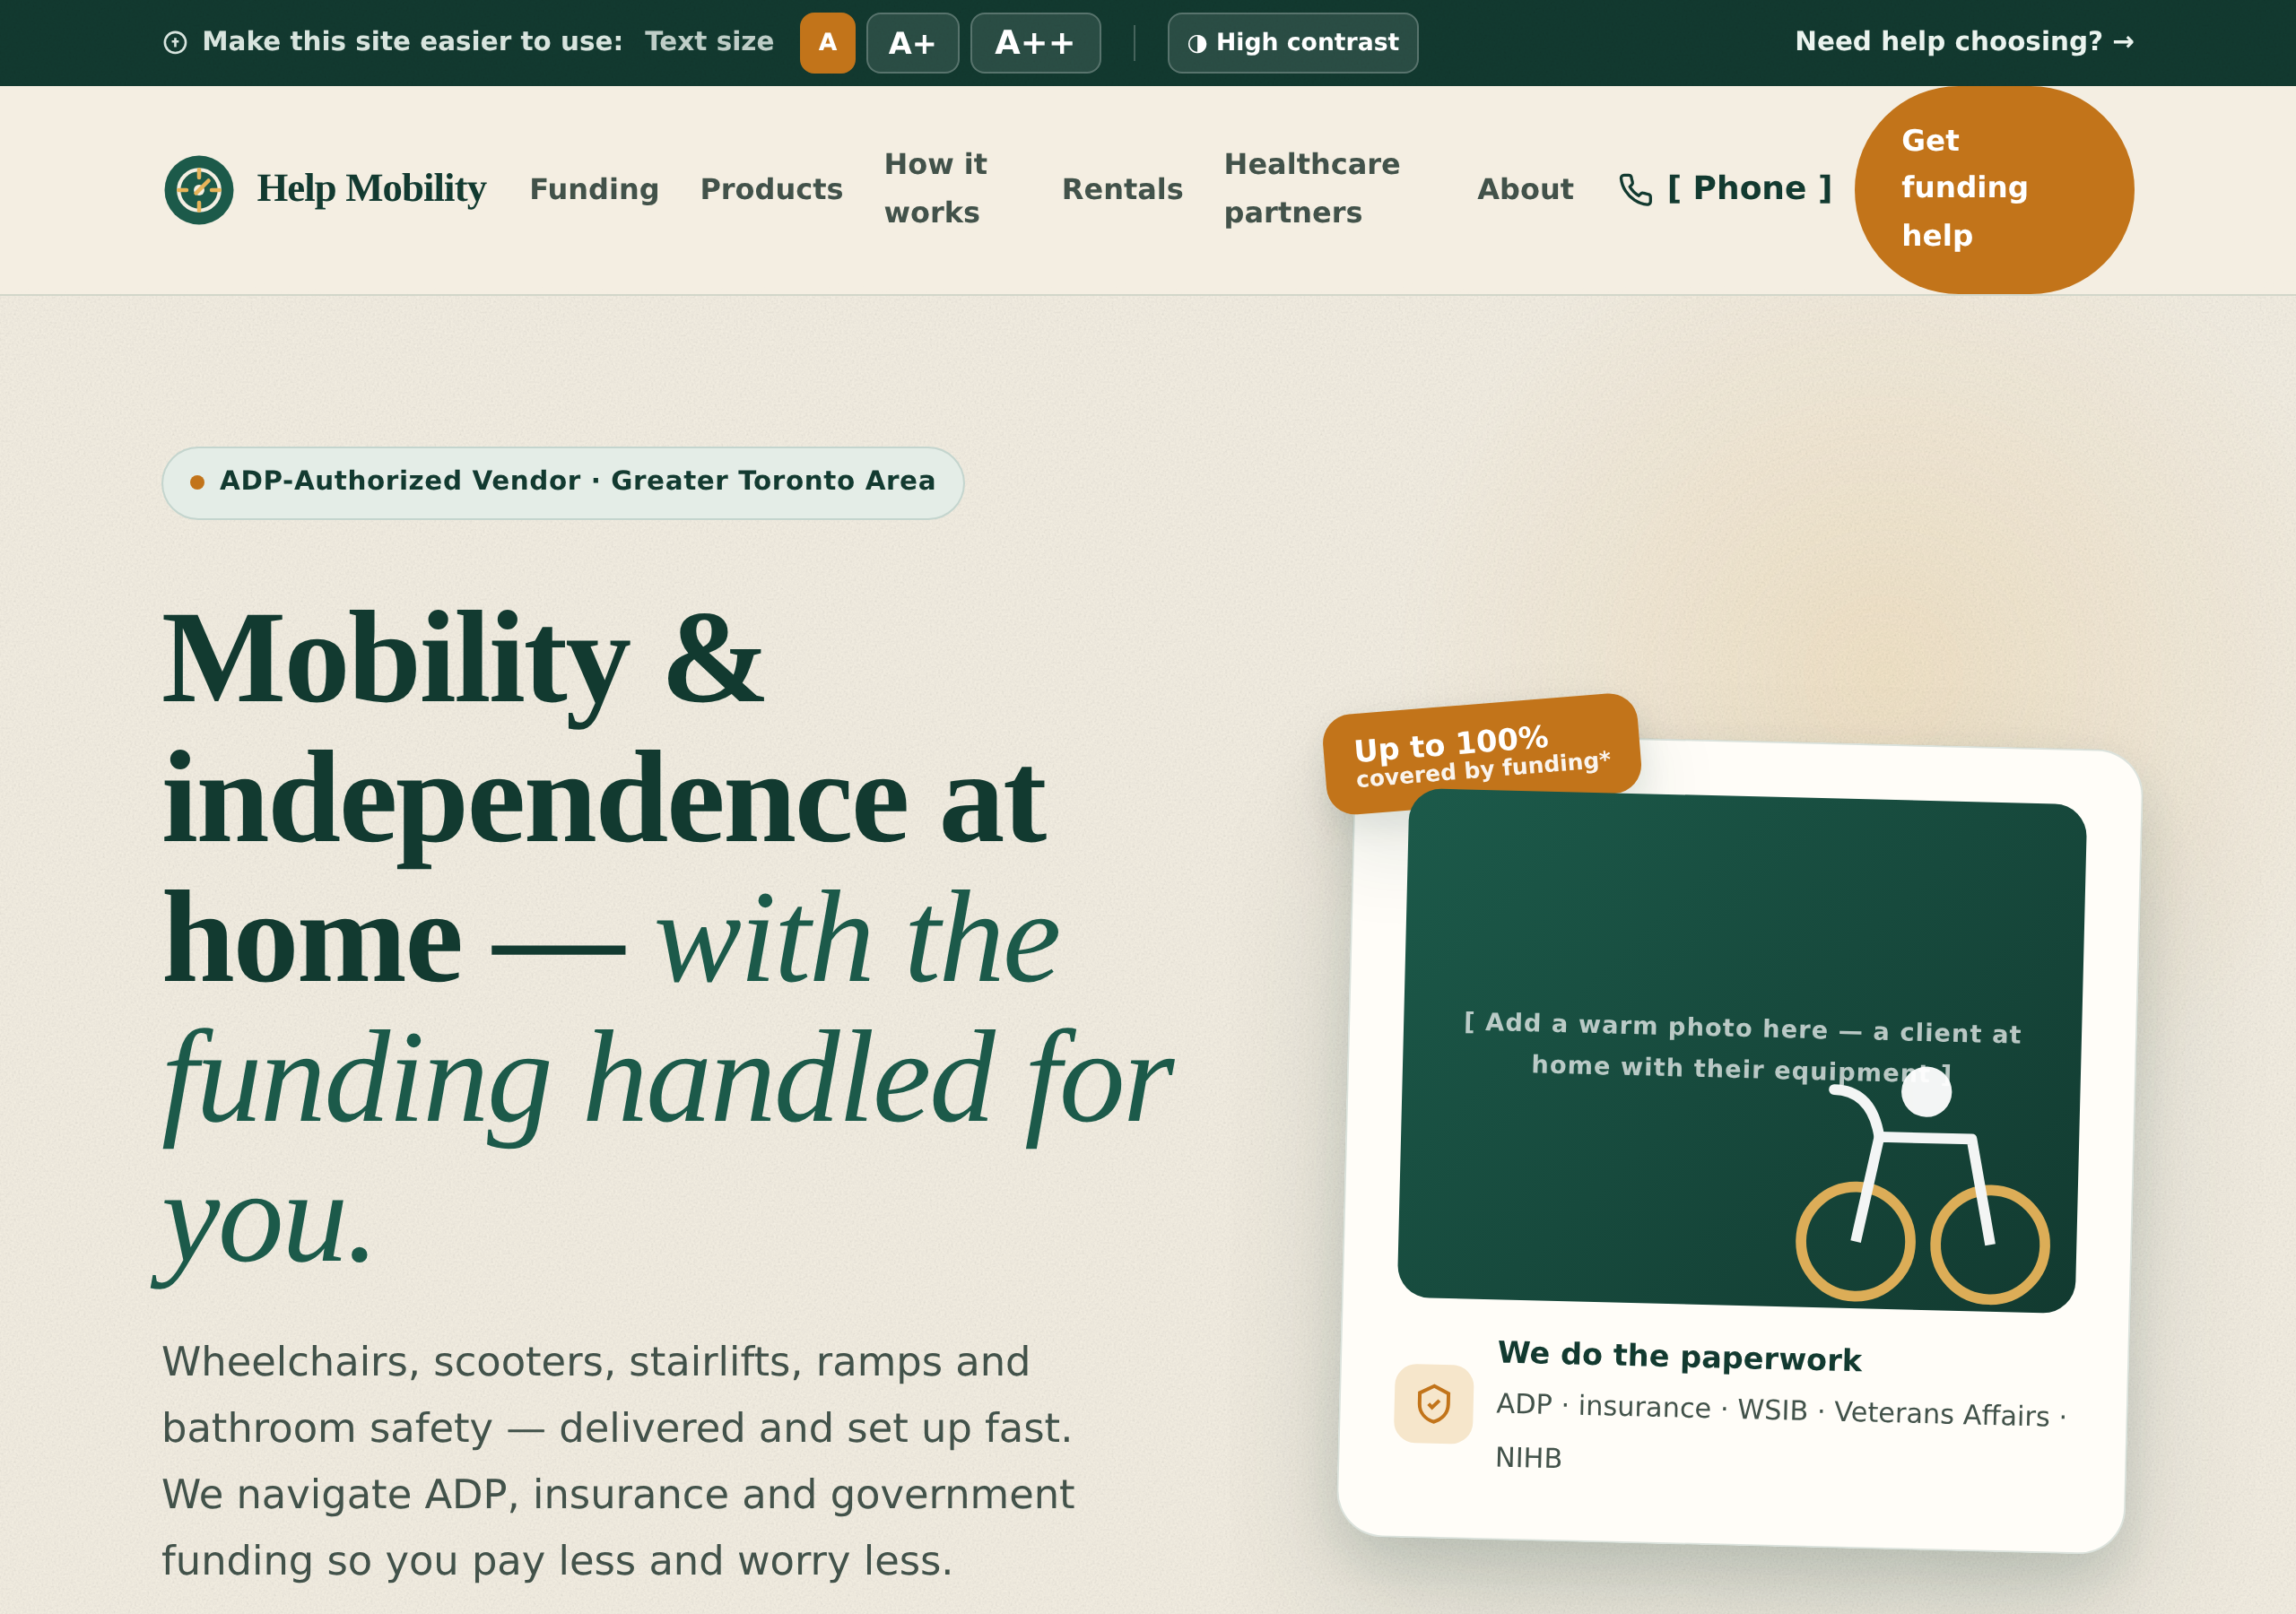
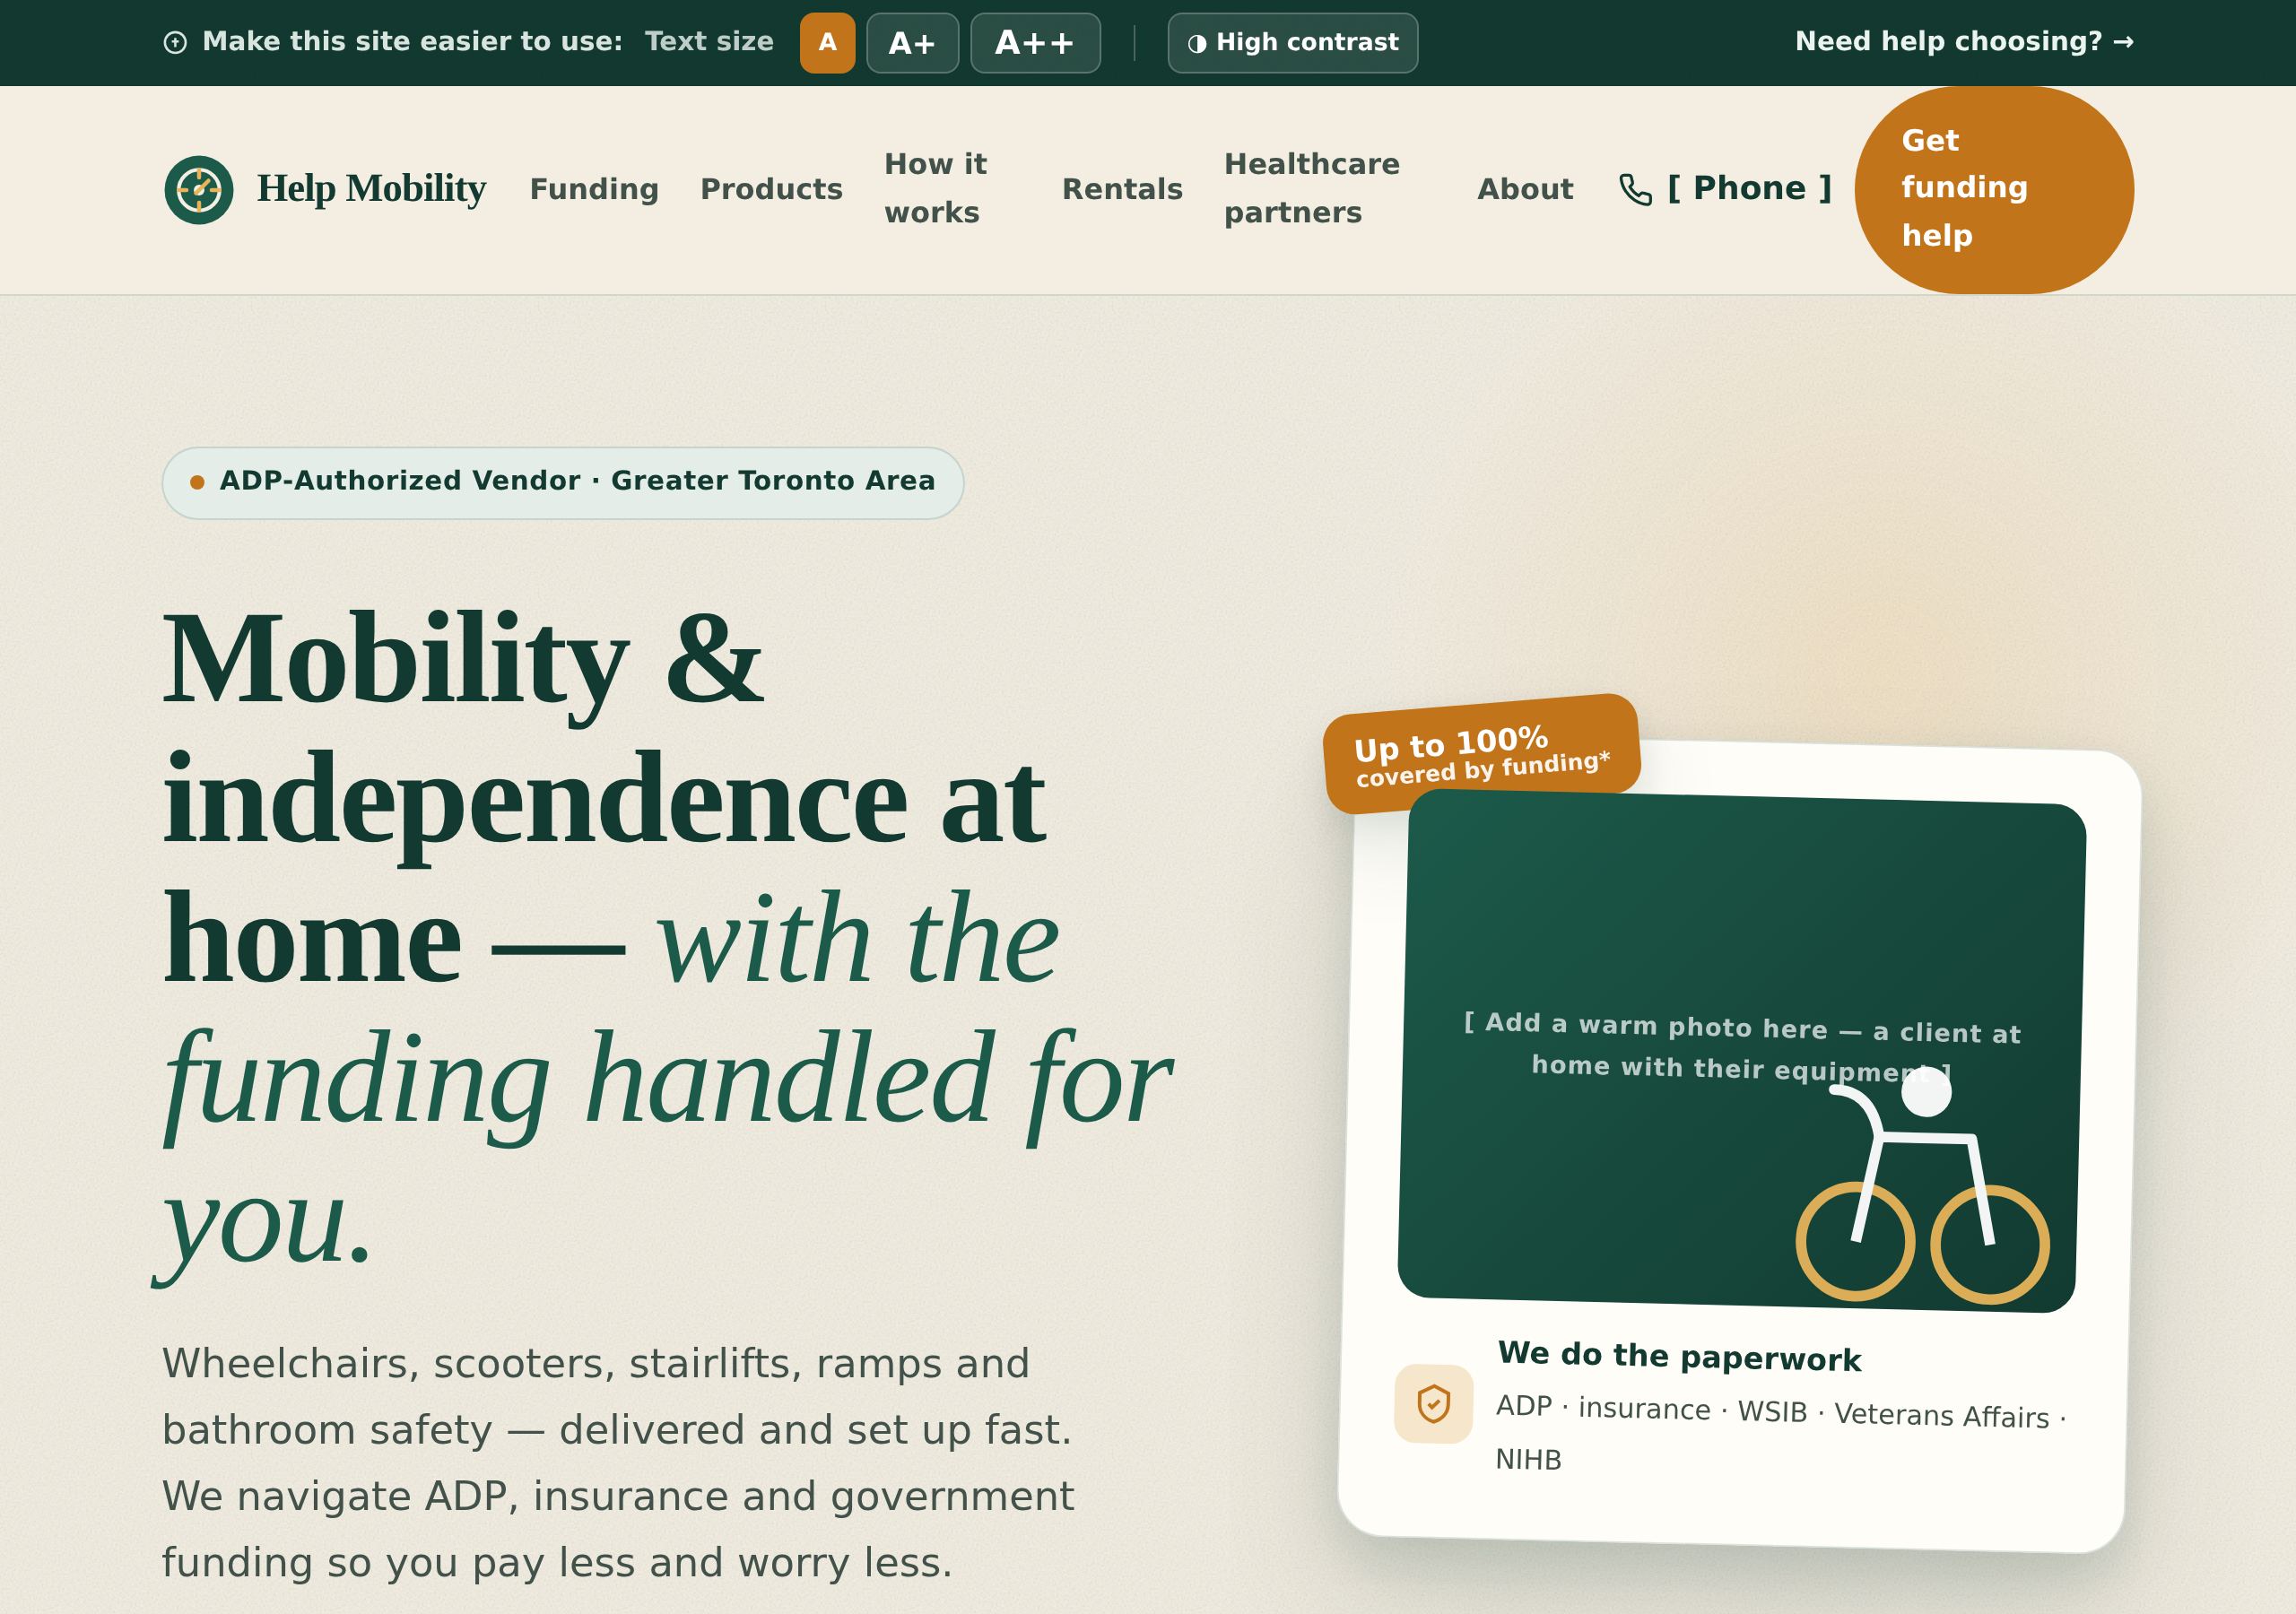
Fix: gate scroll-reveal on JS so content shows without JavaScript
Previously .reveal elements started at opacity:0 and only appeared via
IntersectionObserver, so sections below the hero were blank for visitors with
JavaScript disabled (and in static full-page captures). Now the hidden state is
scoped to .js (added by an inline script), so the no-JS experience shows all
content. Re-rendered preview screenshots showing the full page.

https://claude.ai/code/session_017CR8YL19fiZTNGWjCtfdhj

diff --git a/website/index.html b/website/index.html
@@ -3,6 +3,7 @@
 <head>
 <meta charset="UTF-8" />
 <meta name="viewport" content="width=device-width, initial-scale=1.0" />
+<script>document.documentElement.className += " js";</script>
 <title>Help Mobility — Mobility & Home Accessibility, Funding Handled | Greater Toronto Area</title>
 <meta name="description" content="Help Mobility is an ADP-authorized provider of wheelchairs, scooters, stairlifts, ramps and bathroom safety equipment across the Greater Toronto Area. We handle the funding paperwork — ADP, insurance, WSIB, Veterans Affairs and more — and deliver fast." />
 <meta name="theme-color" content="#1C5A4A" />
@@ -249,9 +250,9 @@ footer.site .fdesc{max-width:34ch; font-size:.98rem; line-height:1.6}
 .foot-bottom{border-top:1px solid rgba(255,255,255,.14); margin-top:2.4rem; padding-top:1.4rem; display:flex; justify-content:space-between; gap:1rem; flex-wrap:wrap; font-size:.88rem; opacity:.8}
 
 /* reveal animation */
-.reveal{opacity:0; transform:translateY(22px); transition:opacity .7s cubic-bezier(.2,.7,.2,1), transform .7s cubic-bezier(.2,.7,.2,1)}
+.js .reveal{opacity:0; transform:translateY(22px); transition:opacity .7s cubic-bezier(.2,.7,.2,1), transform .7s cubic-bezier(.2,.7,.2,1)}
 .reveal.in{opacity:1; transform:none}
-@media (prefers-reduced-motion:reduce){.reveal{opacity:1;transform:none;transition:none}}
+@media (prefers-reduced-motion:reduce){.js .reveal{opacity:1;transform:none;transition:none}}
 
 /* high-contrast mode */
 body.hc{--paper:#fff;--paper-2:#fff;--surface:#fff;--ink:#000;--ink-soft:#1a1a1a;